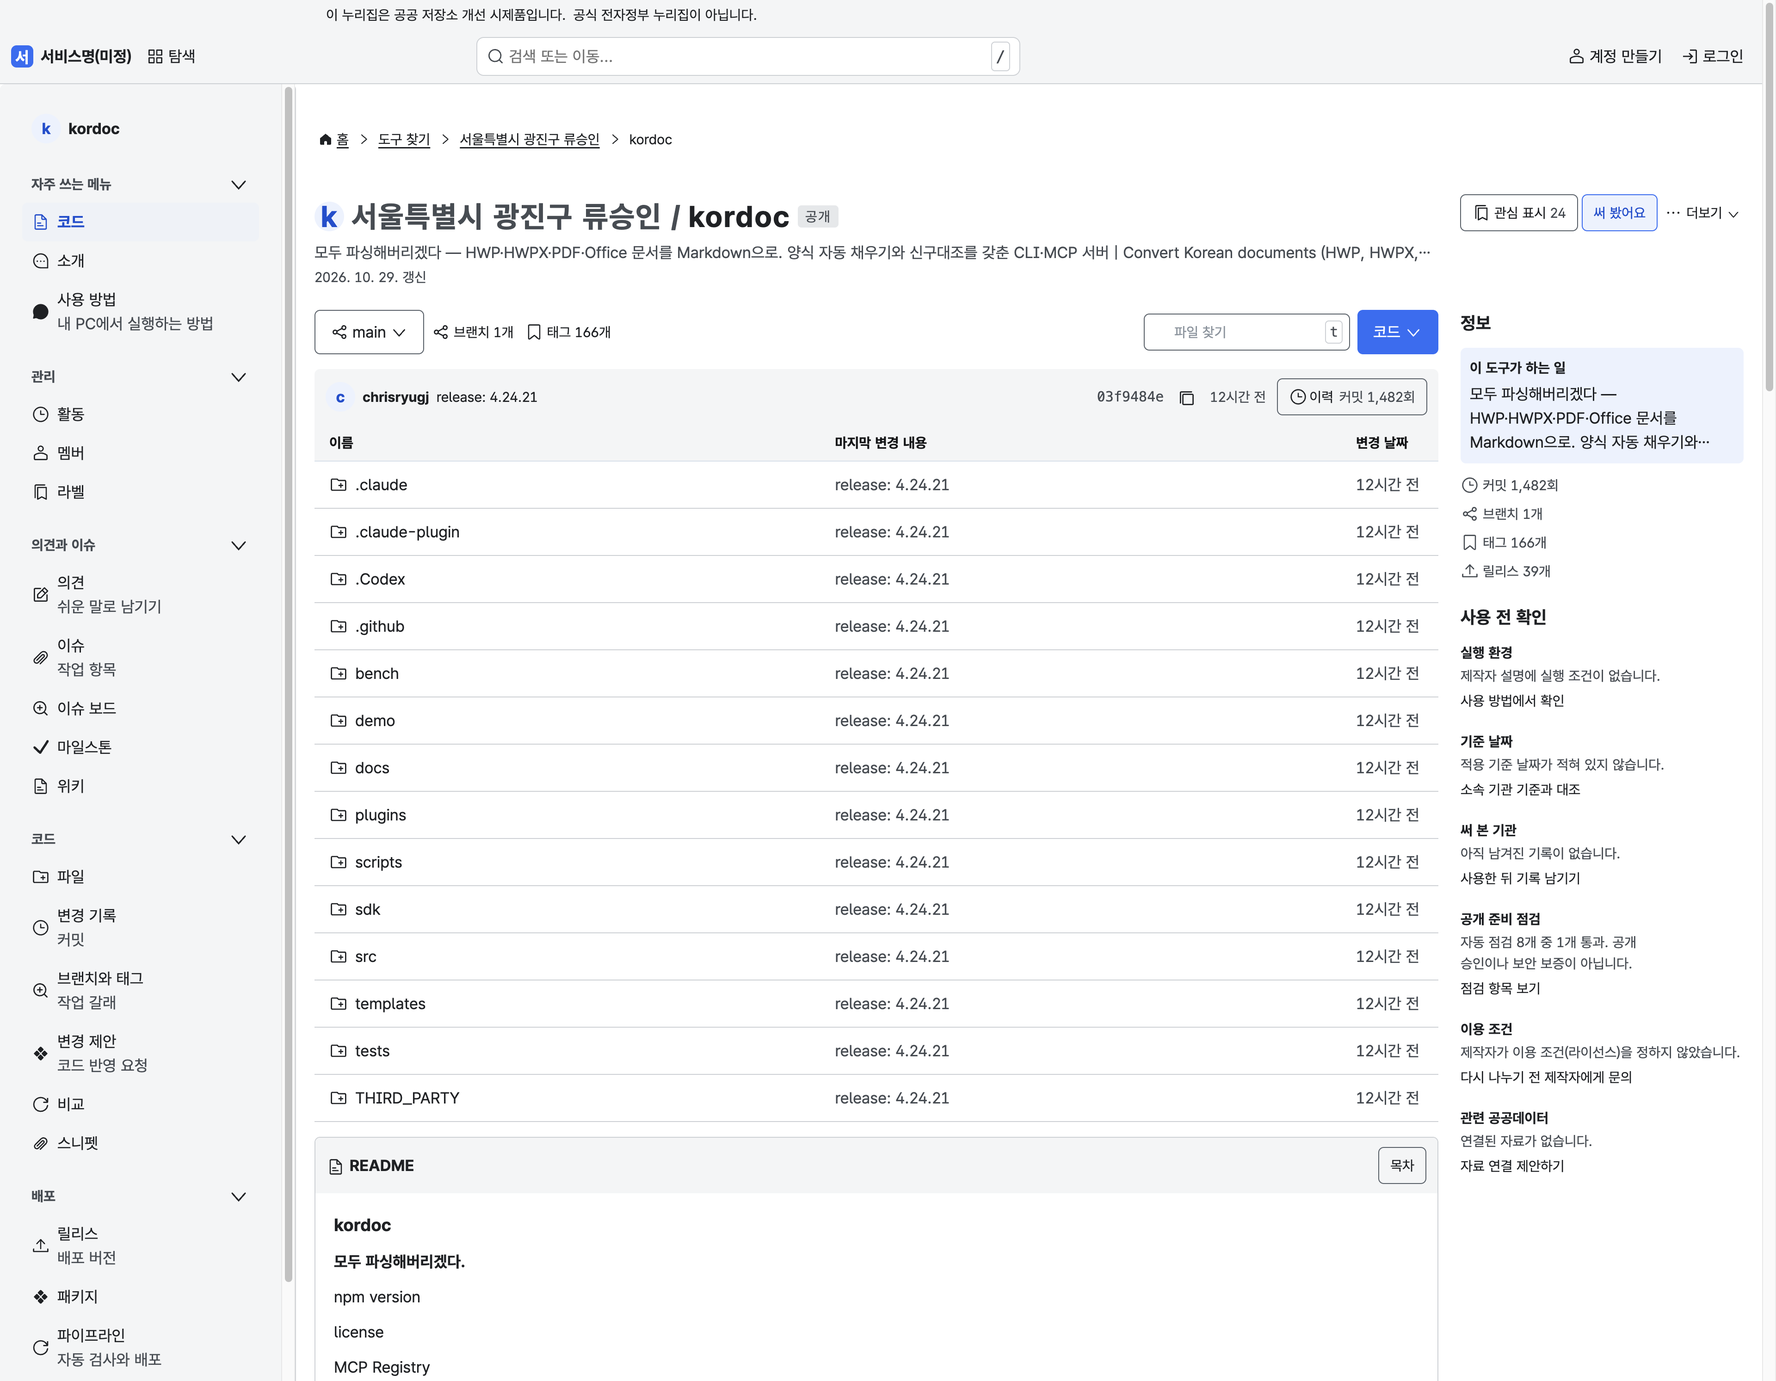
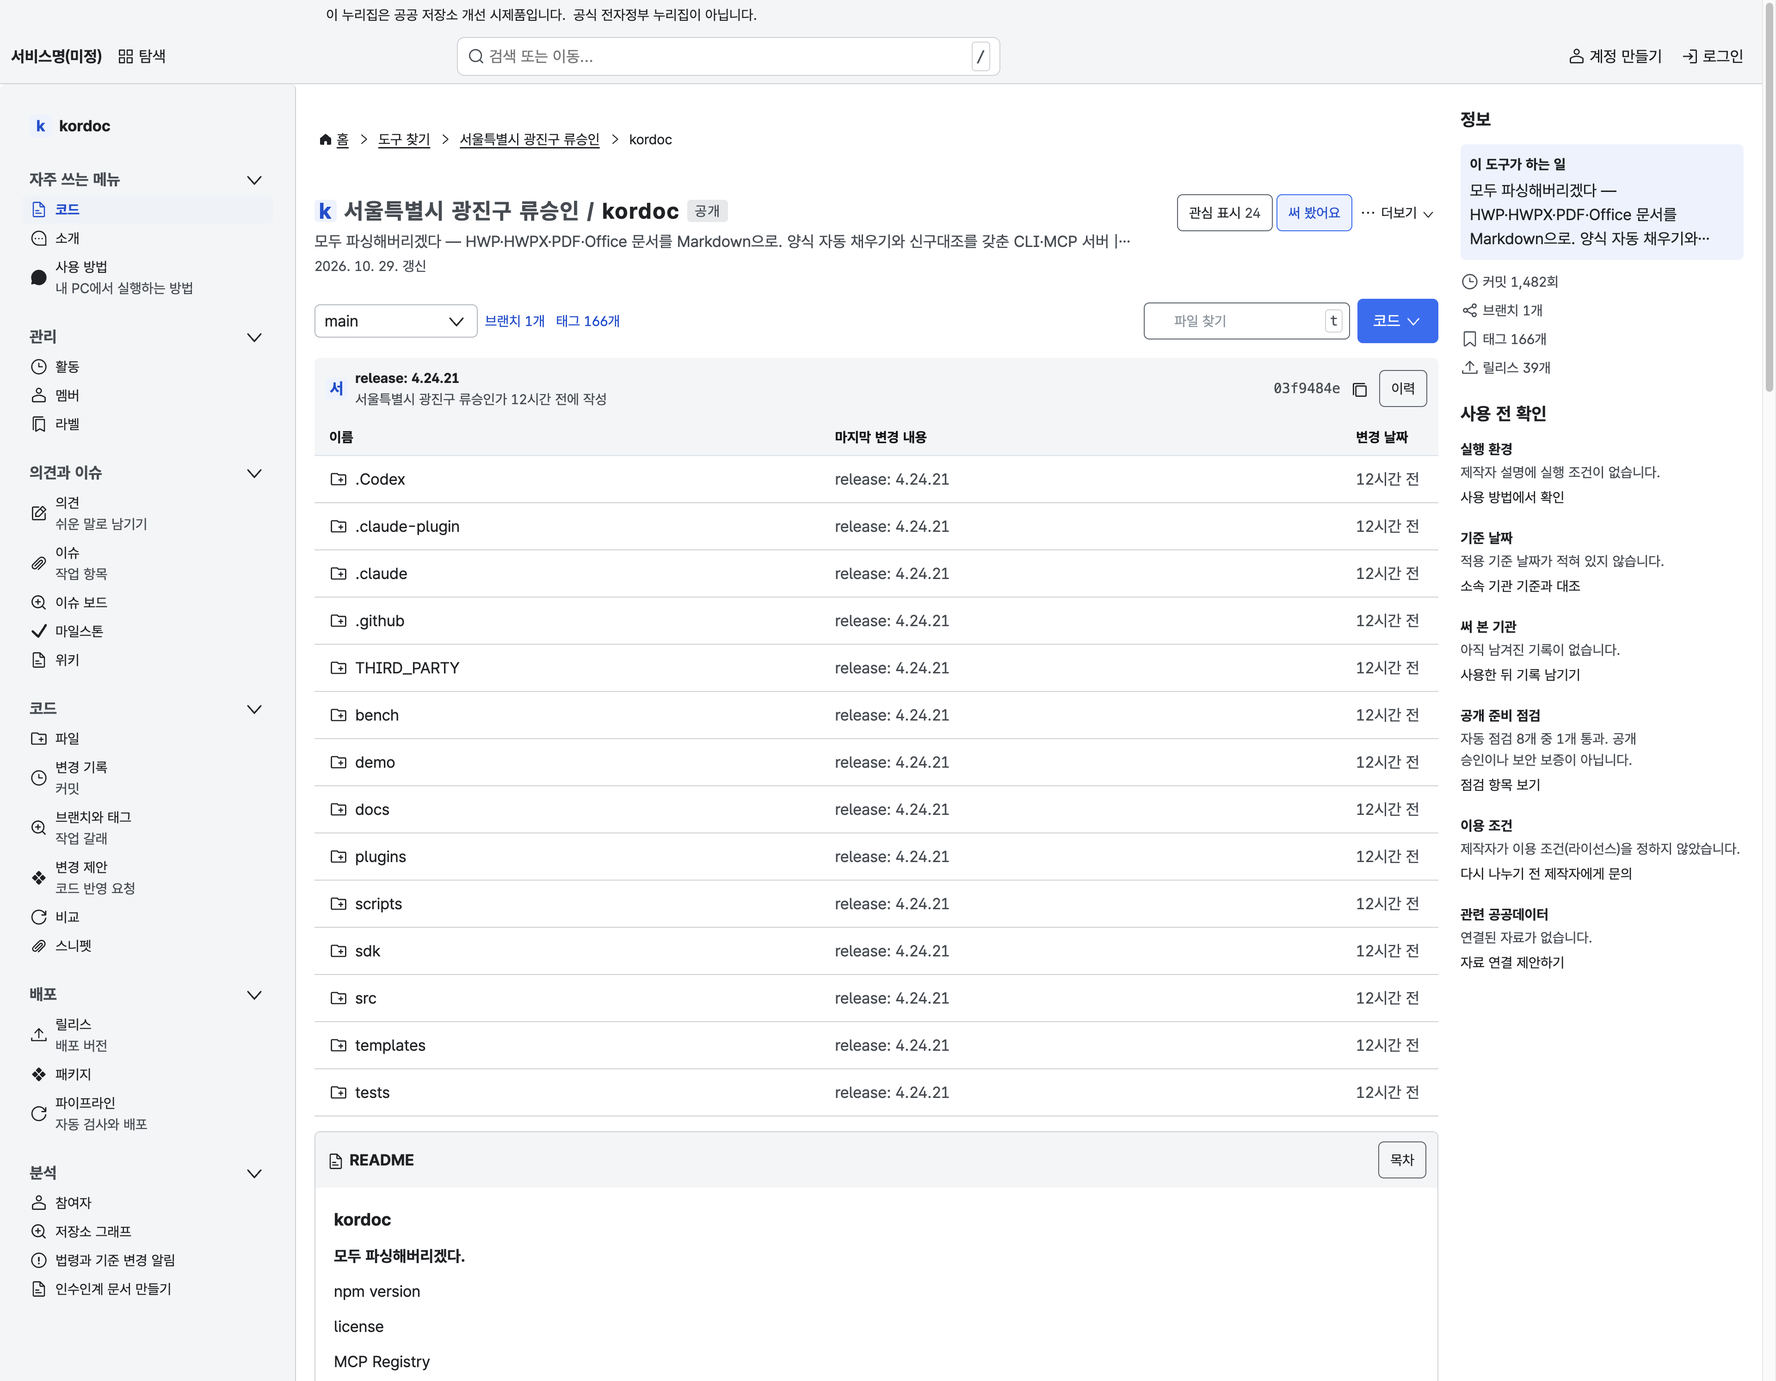
사용자가 짚은 Figma 차이 12건 수정: 상단 바 로고, 제목과 아바타 크기, 사이드바 글자와 간격, 브랜치 선택, 커밋 막대 두 줄과 공개 이름, 이력 버튼, 정보 영역 위치, 파일 정렬은 공공 깃랩 순서 그대로

diff --git a/app/src/components/Layout/repo.css b/app/src/components/Layout/repo.css
@@ -3,7 +3,7 @@
 .rb-repo-top { display: flex; flex-direction: column; gap: var(--krds-gap-3); }
 .rb-repo-head { display: flex; flex-wrap: wrap; align-items: flex-start; justify-content: space-between; gap: var(--krds-gap-4); }
 .rb-repo-title { display: flex; flex-direction: column; gap: var(--krds-gap-1); min-width: 0; flex: 1 1 0; }
-.rb-repo-name { display: flex; flex-wrap: wrap; align-items: center; gap: var(--krds-gap-3); margin: 0; }
+.rb-repo-name { display: flex; flex-wrap: wrap; align-items: center; gap: var(--krds-gap-3); margin: 0; font-size: var(--krds-font-size-heading-medium); }
 .rb-repo-name .rb-repo-org { color: var(--krds-color-text-subtle); font-weight: inherit; }
 .rb-repo-desc { color: var(--krds-color-text-subtle); word-break: keep-all; overflow-wrap: break-word; text-wrap: pretty; display: -webkit-box; -webkit-line-clamp: 1; -webkit-box-orient: vertical; overflow: hidden; }
 .rb-repo-meta { color: var(--krds-color-text-subtle); }
@@ -20,13 +20,14 @@
 .rb-repo-top .rb-tabs::-webkit-scrollbar-thumb { background: var(--krds-color-border-gray); border-radius: var(--krds-radius-max); }
 .rb-repo-top .rb-tabs .tab ul { overflow: visible; }
 /* GitLab 배치: 왼쪽 프로젝트 메뉴 + 본문. 1280 이상에서 메뉴 표시, 그 아래는 탭 줄 */
-.rb-repo-layout { display: grid; grid-template-columns: minmax(0, 1fr); gap: var(--krds-gap-7); }
+.rb-repo-layout { display: grid; grid-template-columns: minmax(0, 1fr); gap: var(--krds-gap-7); align-items: start; }
 .rb-repo-main { display: flex; flex-direction: column; gap: var(--krds-gap-7); min-width: 0; }
 .rb-repo-cols { display: grid; grid-template-columns: minmax(0, 1fr); gap: var(--krds-gap-7); }
 .rb-repo-content { display: flex; flex-direction: column; gap: var(--krds-gap-5); min-width: 0; }
 .rb-repo-aside { display: flex; flex-direction: column; gap: var(--krds-gap-7); min-width: 0; }
 @media (min-width: 1024px) {
-  .rb-repo-cols { grid-template-columns: minmax(0, 1fr) minmax(0, 18em); }
+  /* Figma: 오른쪽 정보 영역이 맨 위(브레드크럼 줄)부터 시작한다 */
+  .rb-repo-layout.has-aside { grid-template-columns: minmax(0, 1fr) minmax(0, 18em); }
 }
 @media (min-width: 1280px) {
   .rb-repo-top .rb-tabs { display: none; }
@@ -38,6 +39,6 @@
 .rb-side-link { display: flex; align-items: center; gap: var(--krds-gap-3); padding: var(--krds-padding-3) var(--krds-padding-4); border-radius: var(--krds-radius-medium2); color: var(--krds-color-text-basic); text-decoration: none; }
 .rb-side-link:hover { background: var(--krds-color-action-secondary-hover); }
 .rb-side-link.active { background: var(--krds-color-action-secondary-selected); color: var(--krds-color-text-primary); font-weight: var(--krds-font-weight-bold); }
-.rb-avatar { display: inline-flex; flex: none; align-items: center; justify-content: center; width: var(--krds-size-height-5); height: var(--krds-size-height-5); border-radius: var(--krds-radius-max); background: var(--krds-color-surface-primary-subtler); color: var(--krds-color-text-primary); font-weight: var(--krds-font-weight-bold); }
+.rb-avatar { display: inline-flex; flex: none; align-items: center; justify-content: center; width: var(--krds-size-height-4); height: var(--krds-size-height-4); border-radius: var(--krds-radius-small2); background: var(--krds-color-surface-primary-subtler); color: var(--krds-color-text-primary); font-weight: var(--krds-font-weight-bold); }
 .rb-icon-only { padding-inline: var(--krds-padding-3); }
 .rb-icon-only .ico-toggle { display: none; }

diff --git a/app/src/components/Code/RepoParts.jsx b/app/src/components/Code/RepoParts.jsx
@@ -30,7 +30,7 @@ export function BranchSelect({ id, current, branches = [], path }) {
   branches = branches || [];
   const navigate = useNavigate();
   return (
-    <Drop label={t.Home_branchSelect} align="left" btnClass="krds-btn medium tertiary rb-branch-btn" button={<><Icon name="share" /><span className="rb-ellipsis">{current}</span></>}>
+    <Drop label={t.Home_branchSelect} align="left" btnClass="rb-branch-btn" button={<span className="rb-ellipsis">{current}</span>}>
       {(close) => (
         <ul className="drop-list" aria-label={t.Home_branchSelect}>
           {(branches || [{ name: current }]).map((b) => (
@@ -102,26 +102,25 @@ export function FileFind({ value, onChange }) {
   );
 }
 
-export function CommitBar({ id, commit, count, more, path }) {
+export function CommitBar({ id, commit, count, more, path, owner }) {
   const [note, copy] = useCopy();
   if (!commit) return null;
-  const org = orgLabel(commit.author_name);
+  // 커밋 자료는 계정 이름(chrisryugj)만 준다. 그 계정이 이 프로젝트 소유자면 공개 이름을 쓴다.
+  const org = owner && owner.path === commit.author_name ? owner.name : orgLabel(commit.author_name);
   return (
     <div className="rb-commit-bar">
-      <p className="rb-commit-main">
-        <span className="rb-avatar" aria-hidden="true">{org.slice(0, 1)}</span>
-        <span className="krds-text-body-small-bold rb-commit-author">{org}</span>
-        <Link className="krds-link krds-text-body-small rb-ellipsis" to={`/projects/${id}/changes/${commit.id}`}>{commit.title}</Link>
-      </p>
+      <span className="rb-avatar rb-commit-avatar" aria-hidden="true">{org.slice(0, 1)}</span>
+      <span className="rb-commit-texts">
+        <Link className="krds-link krds-text-body-small-bold rb-ellipsis" to={`/projects/${id}/changes/${commit.id}`}>{commit.title}</Link>
+        <span className="krds-text-body-small rb-subtle">{t.fn.wroteAt(org)} <Ago iso={commit.committed_date} />{t.fn.wroteSuffix}</span>
+      </span>
       <p className="rb-commit-meta krds-text-body-small rb-subtle">
         <code>{commit.short_id}</code>
         <button type="button" className="krds-btn xsmall text rb-icon-btn" onClick={() => copy(commit.id)}>
           <Icon name="copy" /><span className="sr-only">{t.Home_copySha}</span>
         </button>
-        <Ago iso={commit.committed_date} />
         <Link className="krds-btn small tertiary rb-commit-count" to={`/projects/${id}/changes${path ? `?path=${enc(path)}` : ''}`}>
-          <Icon name="time" />
-          {t.Home_history}&nbsp;<span className="rb-subtle">{t.fn.nCommits(count, more)}</span>
+          {t.Home_history}
         </Link>
         <span className="sr-only" role="status" aria-live="polite">{note}</span>
       </p>
@@ -131,7 +130,7 @@ export function CommitBar({ id, commit, count, more, path }) {
 
 export function FileTable({ id, path, items, log, filter, refQuery }) {
   const sorted = useMemo(
-    () => [...items].filter((f) => !filter || f.name.toLowerCase().includes(filter.toLowerCase())).sort((a, b) => (a.type === b.type ? a.name.localeCompare(b.name) : a.type === 'tree' ? -1 : 1)),
+    () => items.filter((f) => !filter || f.name.toLowerCase().includes(filter.toLowerCase())),
     [items, filter],
   );
   const up = path.includes('/') ? path.slice(0, path.lastIndexOf('/')) : '';

diff --git a/app/src/screens/P16_Code.jsx b/app/src/screens/P16_Code.jsx
@@ -185,8 +185,8 @@ export default function Code() {
               <BranchSelect id={frame.id} current={ref} branches={branches} path={path} />
               {isHome ? (
                 <p className="rb-toolbar-counts krds-text-body-small">
-                  {totals.branches != null ? <Link className="krds-link" to={`/projects/${frame.id}/branches`}><Icon name="share" />{t.fn.nBranches(totals.branches)}</Link> : null}
-                  {totals.tags != null ? <Link className="krds-link" to={`/projects/${frame.id}/branches`}><Icon name="scrap" />{t.fn.nTags(totals.tags)}</Link> : null}
+                  {totals.branches != null ? <Link className="krds-link" to={`/projects/${frame.id}/branches`}>{t.fn.nBranches(totals.branches)}</Link> : null}
+                  {totals.tags != null ? <Link className="krds-link" to={`/projects/${frame.id}/branches`}>{t.fn.nTags(totals.tags)}</Link> : null}
                 </p>
               ) : <PathCrumbs id={frame.id} path={path} refQuery={refQuery} />}
             </div>
@@ -200,13 +200,13 @@ export default function Code() {
             <Status {...body} />
           ) : b.kind === 'file' ? (
             <>
-              <CommitBar id={frame.id} commit={b.last} count={1} path={path} />
+              <CommitBar id={frame.id} commit={b.last} count={1} path={path} owner={project.namespace} />
               <CodeView path={path} text={b.text} rawUrl={rawUrl} size={b.meta?.size} historyTo onHistory={() => navigate(`/projects/${frame.id}/changes?path=${enc(path)}`)} {...blameApi} />
             </>
           ) : b.items.length ? (
             <>
               <div className="rb-tree-block">
-                <CommitBar id={frame.id} commit={b.last} count={b.count} more={b.more} path={path} />
+                <CommitBar id={frame.id} commit={b.last} count={b.count} more={b.more} path={path} owner={project.namespace} />
                 <FileTable id={frame.id} path={path} items={b.items} log={b.log} filter={filter} refQuery={refQuery} />
               </div>
               {b.partial ? <p className="krds-text-body-small rb-subtle">{t.P16_partial}</p> : null}

diff --git a/app/src/components/Code/code.css b/app/src/components/Code/code.css
@@ -112,7 +112,7 @@
 .rb-toolbar-left { flex: 1 1 auto; }
 .rb-toolbar-counts { display: flex; gap: var(--krds-gap-4); }
 .rb-toolbar-counts a { display: inline-flex; align-items: center; gap: var(--krds-gap-2); }
-.rb-branch-btn { max-width: 16em; display: inline-flex; align-items: center; gap: var(--krds-gap-2); }
+.rb-branch-btn-old { max-width: 16em; display: inline-flex; align-items: center; gap: var(--krds-gap-2); }
 .rb-drop-left.rb-drop-open .drop-menu { left: 0; right: auto; }
 .rb-drop .drop-list .item-link { display: flex; align-items: center; gap: var(--krds-gap-2); }
 .rb-find { position: relative; display: flex; align-items: center; gap: var(--krds-gap-2); min-width: 0; }
@@ -205,3 +205,15 @@
 .rb-md-img { color: var(--krds-color-text-subtle); }
 .rb-md-quote { margin: 0; padding-left: var(--krds-padding-5); border-left: var(--krds-border-width-static-medium) solid var(--krds-color-border-gray-light); color: var(--krds-color-text-subtle); }
 .rb-md-item { padding-left: var(--krds-padding-5); }
+
+/* Figma: 브랜치 선택은 넓은 선택칸 모양 */
+.rb-branch-btn { display: flex; align-items: center; justify-content: space-between; gap: var(--krds-gap-3); min-width: 18ch; padding: var(--krds-padding-2) var(--krds-padding-4); border: var(--krds-border-width-static-regular) solid var(--krds-color-border-gray); border-radius: var(--krds-radius-medium2); background: var(--krds-color-surface-white); color: var(--krds-color-text-basic); cursor: pointer; }
+.rb-branch-btn:hover { background: var(--krds-color-action-secondary-hover); }
+/* 브랜치와 태그 수는 링크 색으로 */
+.rb-toolbar-counts a { color: var(--krds-color-text-primary); }
+
+/* Figma: 커밋 막대는 아바타 + 두 줄 글 + 오른쪽 해시와 이력 */
+.rb-commit-bar { display: flex; align-items: center; gap: var(--krds-gap-3); }
+.rb-commit-texts { display: flex; flex-direction: column; min-width: 0; flex: 1 1 auto; }
+.rb-commit-avatar { align-self: center; }
+.rb-commit-meta { display: flex; align-items: center; gap: var(--krds-gap-3); margin: 0; flex: none; }

diff --git a/app/src/components/Layout/shell.css b/app/src/components/Layout/shell.css
@@ -86,11 +86,11 @@
 .rb-shell { display: flex; flex: 1; width: 100%; align-items: stretch; }
 .rb-side {
   flex: none;
-  width: 30ch;
+  width: 26ch;
   display: flex;
   flex-direction: column;
-  gap: var(--krds-gap-2);
-  padding: var(--krds-padding-5) var(--krds-padding-4);
+  gap: var(--krds-gap-1);
+  padding: var(--krds-padding-4) var(--krds-padding-3);
   border-right: var(--krds-border-width-static-regular) solid var(--krds-color-border-gray-light);
   background: var(--krds-color-surface-gray-subtler);
   overflow-y: auto;
@@ -100,17 +100,19 @@
   max-height: 100dvh;
 }
 .rb-side-dim { display: none; }
-.rb-side-project { display: flex; align-items: center; gap: var(--krds-gap-3); padding: var(--krds-padding-3) var(--krds-padding-4); min-width: 0; }
+.rb-side-project { display: flex; align-items: center; gap: var(--krds-gap-3); padding: var(--krds-padding-3); min-width: 0; }
 .rb-side-group { display: flex; flex-direction: column; }
 .rb-side-group-btn {
   display: flex; align-items: center; justify-content: space-between; width: 100%;
-  padding: var(--krds-padding-3) var(--krds-padding-4);
+  padding: var(--krds-padding-3) var(--krds-padding-3) var(--krds-padding-2);
+  font-size: var(--krds-font-size-detail-small);
   background: none; border: 0; color: var(--krds-color-text-subtle); cursor: pointer; text-align: left;
 }
 .rb-side-group-btn[aria-expanded="false"] .ico-toggle { transform: rotate(-90deg); }
 .rb-side-link {
   display: flex; align-items: center; gap: var(--krds-gap-3);
-  padding: var(--krds-padding-3) var(--krds-padding-4);
+  padding: var(--krds-padding-2) var(--krds-padding-3);
+  font-size: var(--krds-font-size-body-small);
   border-radius: var(--krds-radius-medium2);
   color: var(--krds-color-text-basic); text-decoration: none;
 }

diff --git a/app/src/components/Layout/ProjectFrame.jsx b/app/src/components/Layout/ProjectFrame.jsx
@@ -67,7 +67,6 @@ function RepoHeader({ project, id }) {
         </div>
         <div className="rb-repo-actions" role="group" aria-label={t.RepoHead_actions}>
           <button type="button" className="krds-btn small tertiary" onClick={star}>
-            <Icon name="bookmarks" />
             {t.RepoHead_star}
             <span className="rb-subtle">{project.star_count ?? 0}</span>
           </button>
@@ -107,20 +106,16 @@ export function ProjectFrame({ screenId, tab, tabLabel, data, children, state, a
   const { project } = data.data;
   return (
     <Page id={screenId} title={`${project.name} ${tabLabel || ''}`} state={state}>
-      <div className="rb-repo-layout">
+      <div className={'rb-repo-layout' + (aside ? ' has-aside' : '')}>
         <div className="rb-repo-main">
           <div className="rb-repo-top">
             <Breadcrumb items={[[t.Header_2, '/search'], [organizationOf(project), `/search?q=${encodeURIComponent(organizationOf(project))}`], [project.name, tab ? `/projects/${data.id}` : null], ...(tab ? [[tabLabel]] : [])]} />
             <RepoHeader project={project} id={data.id} />
             <ProjectTabs id={data.id} active={tab} />
           </div>
-          {aside ? (
-            <div className="rb-repo-cols">
-              <div className="rb-repo-content">{children}</div>
-              <div className="rb-repo-aside">{aside}</div>
-            </div>
-          ) : children}
+          {children}
         </div>
+        {aside ? <div className="rb-repo-aside">{aside}</div> : null}
       </div>
     </Page>
   );

diff --git a/app/src/components/Identity/GlobalBar.jsx b/app/src/components/Identity/GlobalBar.jsx
@@ -86,7 +86,6 @@ export function GlobalBar({ onToggleNav, navOpen }) {
           <span className="sr-only">{t.GlobalBar_navToggle}</span>
         </button>
         <Link className="rb-gbar-brand" to="/">
-          <span className="rb-gbar-mark" aria-hidden="true">{SERVICE_NAME.slice(0, 1)}</span>
           <span className="rb-gbar-brand-text">{SERVICE_NAME}</span>
         </Link>
         <NavLink end className="rb-gbar-btn rb-gbar-explore" to="/">

diff --git a/app/src/copy/ko.js b/app/src/copy/ko.js
@@ -718,6 +718,8 @@ export const t = {
   // 숫자가 들어가는 문구
   fn: {
     items: (n) => `${n}개`,
+    wroteAt: (who) => `${who}가`,
+    wroteSuffix: '에 작성',
     readmeLine: (n) => `README ${n}행`,
     stepNo: (n) => `${n}.`,
     tabCommits: (n) => `커밋 ${n}`,

diff --git a/code_plan/figma_code_diff_v3.md b/code_plan/figma_code_diff_v3.md
@@ -91,3 +91,32 @@
 - 수치가 2.9~8.2%로 남는 가장 큰 까닭은 글자 크기와 줄 높이, 칸 사이 간격이다. Figma는 디자인 값, 코드는 KRDS 공식 CSS 계산값을 쓴다.
 - 받아 둔 자료의 한계(목록 100개)로 생기는 숫자 차이는 디자인 차이가 아니다.
 - 색은 둘 다 KRDS 변수를 쓰므로 계산값으로 따로 확인한다. 브라우저 캡처 색 보정 때문에 그림 비교로는 색을 판정하지 않는다.
+
+## 5. 2차 수정 (사용자가 그림을 직접 보고 짚은 차이)
+
+앞서 "색과 칸 위치가 이미 같다"고 적은 것은 틀렸다. 사용자가 짚은 차이를 하나씩 없앴다.
+
+| 짚은 차이 | 고친 내용 |
+|---|---|
+| 상단 바 네모 로고 | Figma에 없다. 코드에서 제거 |
+| 저장소 제목 글자 크기 | heading-medium으로 줄임 |
+| 프로젝트 아바타 | 크기 축소, 둥근 사각형으로 |
+| 관심 표시 버튼 아이콘 | 제거(Figma는 글자만) |
+| 사이드바 글자 크기와 묶음 간격 | 글자 body-small, 묶음 머리 detail-small, 상하 여백 축소, 너비 26ch |
+| 브랜치 선택 | 아이콘 버튼 → 넓은 선택칸(테두리, 오른쪽 화살표). 화살표 아이콘이 동그라미로 잘못 들어가 있던 것도 교체 |
+| 브랜치와 태그 링크 | 아이콘 제거, 링크 색 적용 |
+| 커밋 막대 | 아바타 + 변경 내용 한 줄 + "누가 언제 작성" 둘째 줄로 |
+| 커밋 작성자 이름 | 계정 이름(chrisryugj) → 공개 이름(서울특별시 광진구 류승인). 그 계정이 프로젝트 소유자와 같을 때만 바꾼다 |
+| 이력 버튼 | 아이콘과 커밋 수 제거, 이름만 |
+| 정보 영역 위치 | 아래로 밀리던 것을 맨 위(브레드크럼 줄)부터 시작하는 두 칸 구조로 |
+| 정보 영역 너비 | 18em으로 |
+
+### 판단이 필요했던 두 가지 (공공 깃랩 실제 동작과 서버 결과로 정함)
+
+1. **파일 정렬**: 공공 깃랩 API가 주는 순서가 `.Codex, .claude-plugin, .claude, .github, THIRD_PARTY, bench ...`다. 폴더 먼저, 이름은 대문자가 앞선다. 코드가 `localeCompare`로 다시 정렬해 `.claude`가 앞에 오던 것을 고쳤다. 이제 받은 순서를 그대로 쓴다. Figma와 같다.
+2. **"이 도구가 하는 일" 문장**: 서버 소개 카드(`/api/v1/projects/150/card`)의 `summary`가 kordoc에서는 `null`이다. 그래서 코드는 프로젝트 설명을 정리해 쓴다. Figma의 문장("HWP, HWPX, PDF, Office 문서를 Markdown으로 바꾸고 ...")은 서버가 만들어 내는 값이 아니다. Figma 갈래에 알렸다.
+
+### 남은 차이
+- R-01 1920 Guest 6.39%, Signed-in 6.97%. 남은 것은 글자 렌더와 아주 작은 간격이다.
+- 커밋 막대 아바타: Figma는 사진, 코드는 머리글자다. 공개 아바타 주소(`avatar_url`)를 쓸지 정해야 한다.
+- 코드 버튼: Figma는 글자만, 코드는 펼침 화살표가 붙는다(KRDS 드롭다운 기본).
